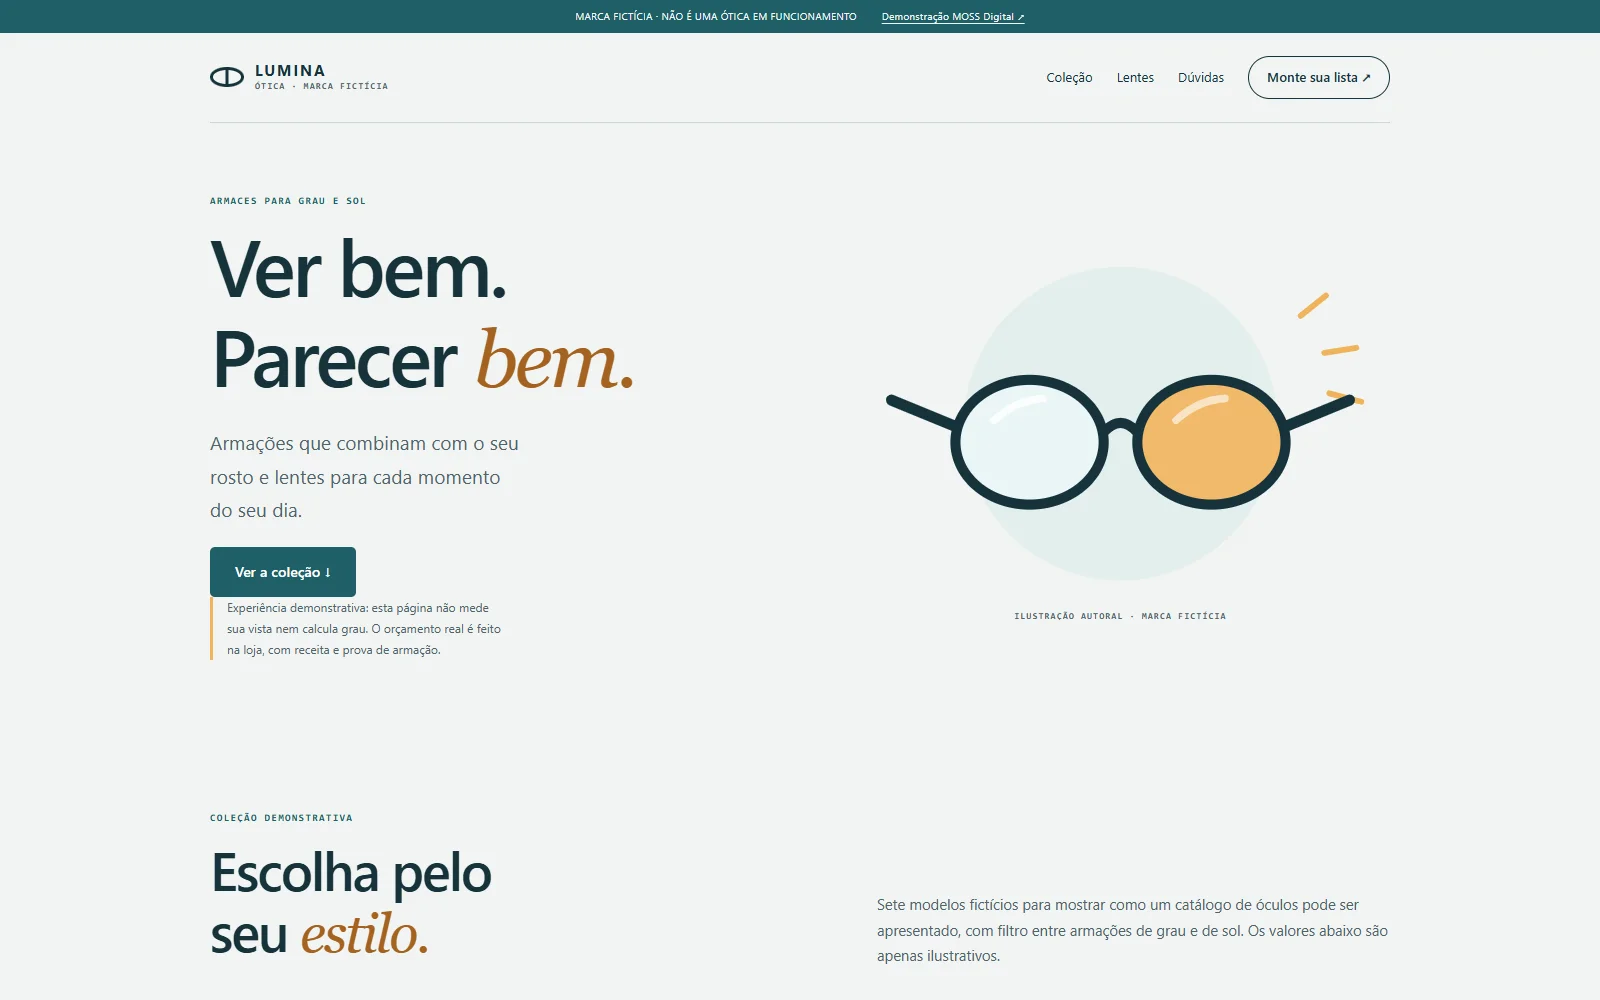
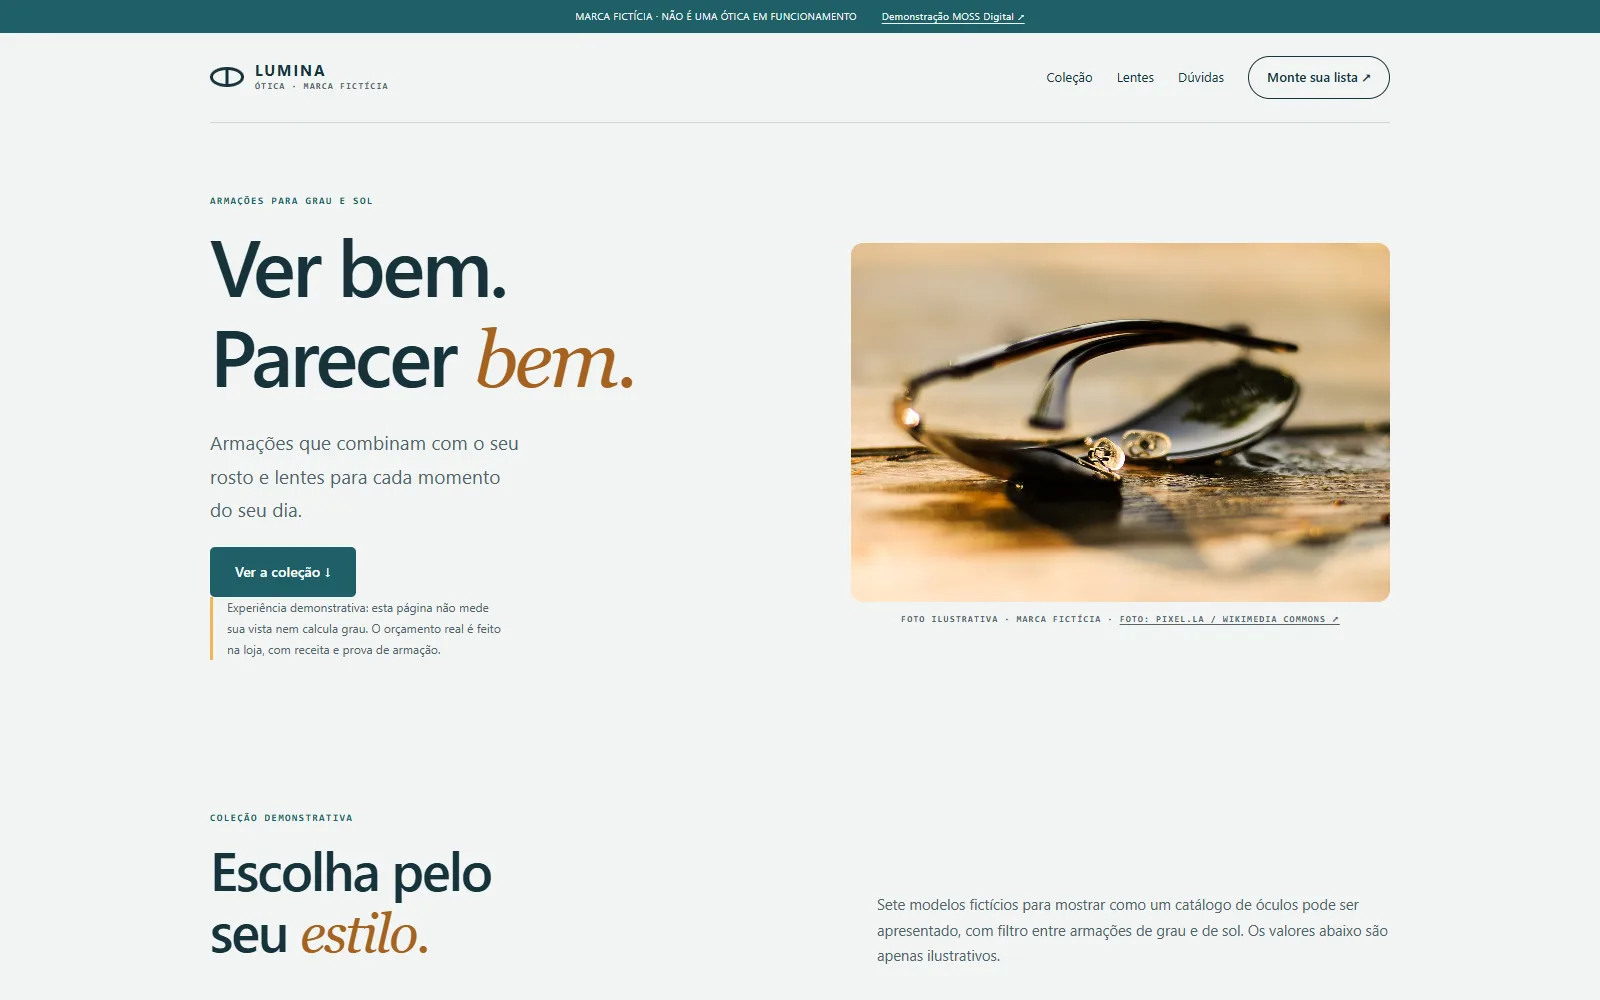
Otica: fotos reais nos cards de armações e prévia atualizada

Changed region(s): [[0.5312, 0.217, 0.875, 0.62], [0.1562, 0.186, 0.2188, 0.217]]

diff --git a/demos/otica/index.html b/demos/otica/index.html
@@ -6,13 +6,13 @@
 <section class="hero container" id="inicio" aria-labelledby="hero-title"><div class="hero-copy"><span class="eyebrow">ARMAÇÕES PARA GRAU E SOL</span><h1 id="hero-title">Ver bem.<br>Parecer <em>bem.</em></h1><p class="hero-line">Armações que combinam com o seu rosto e lentes para cada momento do seu dia.</p><a class="button" href="#colecao">Ver a coleção ↓</a><p class="hero-note">Experiência demonstrativa: esta página não mede sua vista nem calcula grau. O orçamento real é feito na loja, com receita e prova de armação.</p></div><div class="hero-art"><img src="assets/foto-oculos.jpg" alt="Fotografia ilustrativa de óculos de sol sobre uma superfície de madeira" width="1280" height="853" fetchpriority="high"><span>FOTO ILUSTRATIVA · MARCA FICTÍCIA · <a href="https://commons.wikimedia.org/wiki/File:Fashion-sunglasses-summer-eyewear_(24326655305).jpg" target="_blank" rel="noopener noreferrer">FOTO: PIXEL.LA / WIKIMEDIA COMMONS ↗</a></span></div></section>
 <section class="section container" id="colecao" aria-labelledby="colecao-title"><div class="section-heading"><div><span class="eyebrow">COLEÇÃO DEMONSTRATIVA</span><h2 id="colecao-title">Escolha pelo<br>seu <em>estilo.</em></h2></div><p>Sete modelos fictícios para mostrar como um catálogo de óculos pode ser apresentado, com filtro entre armações de grau e de sol. Os valores abaixo são apenas ilustrativos.</p></div><div class="filters" role="group" aria-label="Filtrar a coleção"><button type="button" data-filter="todos" aria-pressed="true">Todos</button><button type="button" data-filter="grau" aria-pressed="false">Óculos de grau</button><button type="button" data-filter="sol" aria-pressed="false">Óculos de sol</button></div><p class="count" id="filter-count" aria-live="polite">7 modelos na coleção</p>
 <div class="grid">
-<article class="card" data-kind="grau"><img src="assets/arm-redondo.svg" alt="Ilustração de armação redonda" width="320" height="140"><span class="tag tag-grau">GRAU</span><h3>Redondo Clássico</h3><p>Aro redondo de acetato, leve e versátil para o dia a dia.</p><span class="price">a partir de R$ 280 <small>valor ilustrativo</small></span><a class="card-link" href="#lista" data-style="redondo">Experimentar esse estilo →</a></article>
-<article class="card" data-kind="grau"><img src="assets/arm-quadrado.svg" alt="Ilustração de armação quadrada" width="320" height="140"><span class="tag tag-grau">GRAU</span><h3>Quadrado Urbano</h3><p>Cantos definidos e ponte firme, para quem prefere linhas retas.</p><span class="price">a partir de R$ 320 <small>valor ilustrativo</small></span><a class="card-link" href="#lista" data-style="quadrado">Experimentar esse estilo →</a></article>
-<article class="card" data-kind="grau"><img src="assets/arm-hexagonal.svg" alt="Ilustração de armação hexagonal" width="320" height="140"><span class="tag tag-grau">GRAU</span><h3>Hexagonal Moderno</h3><p>Aro geométrico para quem quer sair do formato tradicional.</p><span class="price">a partir de R$ 350 <small>valor ilustrativo</small></span><a class="card-link" href="#lista" data-style="hexagonal">Experimentar esse estilo →</a></article>
-<article class="card" data-kind="grau"><img src="assets/arm-metalico.svg" alt="Ilustração de armação metálica fina" width="320" height="140"><span class="tag tag-grau">GRAU</span><h3>Metálico Fino</h3><p>Estrutura discretamente dourada, quase imperceptível no rosto.</p><span class="price">a partir de R$ 390 <small>valor ilustrativo</small></span><a class="card-link" href="#lista" data-style="qualquer">Experimentar esse estilo →</a></article>
-<article class="card" data-kind="sol"><img src="assets/arm-aviador.svg" alt="Ilustração de óculos aviador de sol" width="320" height="140"><span class="tag tag-sol">SOL</span><h3>Aviador Solar</h3><p>Lente esverdeada clássica, boa para dirigir e para o sol forte.</p><span class="price">a partir de R$ 260 <small>valor ilustrativo</small></span><a class="card-link" href="#lista" data-style="aviador">Experimentar esse estilo →</a></article>
-<article class="card" data-kind="sol"><img src="assets/arm-gato.svg" alt="Ilustração de armação estilo gato" width="320" height="140"><span class="tag tag-sol">SOL</span><h3>Gato Chic</h3><p>Ponta levantada e aro marcante, um clássico que valoriza o olhar.</p><span class="price">a partir de R$ 310 <small>valor ilustrativo</small></span><a class="card-link" href="#lista" data-style="gato">Experimentar esse estilo →</a></article>
-<article class="card" data-kind="sol"><img src="assets/arm-sol-redondo.svg" alt="Ilustração de óculos de sol redondo" width="320" height="140"><span class="tag tag-sol">SOL</span><h3>Sol Redondo Retrô</h3><p>Lente escura redonda com brilho leve, inspirada nos anos 70.</p><span class="price">a partir de R$ 240 <small>valor ilustrativo</small></span><a class="card-link" href="#lista" data-style="redondo">Experimentar esse estilo →</a></article>
+<article class="card" data-kind="grau"><img src="assets/arm-redondo.jpg" alt="Ilustração de armação redonda" width="320" height="140"><span class="tag tag-grau">GRAU</span><h3>Redondo Clássico</h3><p>Aro redondo de acetato, leve e versátil para o dia a dia.</p><span class="price">a partir de R$ 280 <small>valor ilustrativo</small></span><a class="card-link" href="#lista" data-style="redondo">Experimentar esse estilo →</a></article>
+<article class="card" data-kind="grau"><img src="assets/arm-quadrado.jpg" alt="Ilustração de armação quadrada" width="320" height="140"><span class="tag tag-grau">GRAU</span><h3>Quadrado Urbano</h3><p>Cantos definidos e ponte firme, para quem prefere linhas retas.</p><span class="price">a partir de R$ 320 <small>valor ilustrativo</small></span><a class="card-link" href="#lista" data-style="quadrado">Experimentar esse estilo →</a></article>
+<article class="card" data-kind="grau"><img src="assets/arm-hexagonal.jpg" alt="Ilustração de armação hexagonal" width="320" height="140"><span class="tag tag-grau">GRAU</span><h3>Hexagonal Moderno</h3><p>Aro geométrico para quem quer sair do formato tradicional.</p><span class="price">a partir de R$ 350 <small>valor ilustrativo</small></span><a class="card-link" href="#lista" data-style="hexagonal">Experimentar esse estilo →</a></article>
+<article class="card" data-kind="grau"><img src="assets/arm-metalico.jpg" alt="Ilustração de armação metálica fina" width="320" height="140"><span class="tag tag-grau">GRAU</span><h3>Metálico Fino</h3><p>Estrutura discretamente dourada, quase imperceptível no rosto.</p><span class="price">a partir de R$ 390 <small>valor ilustrativo</small></span><a class="card-link" href="#lista" data-style="qualquer">Experimentar esse estilo →</a></article>
+<article class="card" data-kind="sol"><img src="assets/arm-aviador.jpg" alt="Ilustração de óculos aviador de sol" width="320" height="140"><span class="tag tag-sol">SOL</span><h3>Aviador Solar</h3><p>Lente esverdeada clássica, boa para dirigir e para o sol forte.</p><span class="price">a partir de R$ 260 <small>valor ilustrativo</small></span><a class="card-link" href="#lista" data-style="aviador">Experimentar esse estilo →</a></article>
+<article class="card" data-kind="sol"><img src="assets/arm-gato.jpg" alt="Ilustração de armação estilo gato" width="320" height="140"><span class="tag tag-sol">SOL</span><h3>Gato Chic</h3><p>Ponta levantada e aro marcante, um clássico que valoriza o olhar.</p><span class="price">a partir de R$ 310 <small>valor ilustrativo</small></span><a class="card-link" href="#lista" data-style="gato">Experimentar esse estilo →</a></article>
+<article class="card" data-kind="sol"><img src="assets/arm-sol-redondo.jpg" alt="Ilustração de óculos de sol redondo" width="320" height="140"><span class="tag tag-sol">SOL</span><h3>Sol Redondo Retrô</h3><p>Lente escura redonda com brilho leve, inspirada nos anos 70.</p><span class="price">a partir de R$ 240 <small>valor ilustrativo</small></span><a class="card-link" href="#lista" data-style="redondo">Experimentar esse estilo →</a></article>
 </div></section>
 <section class="section container" id="lentes" aria-labelledby="lentes-title"><div class="section-heading"><div><span class="eyebrow">LENTES PARA CADA ROTINA</span><h2 id="lentes-title">O que a lente<br>faz por <em>você.</em></h2></div><p>Exemplos de como apresentar opções de lentes em um site de ótica. As características abaixo são ilustrativas: a indicação real depende da receita e de avaliação oftalmológica.</p></div><div class="lente-grid"><article><h3>Antirreflexo</h3><p>Reduz reflexos de telas e luzes, deixando a visão mais confortável em ambientes internos.</p></article><article><h3>Filtro de luz azul</h3><p>Apresentada como opção para quem passa muitas horas na frente de telas. A necessidade varia pessoa a pessoa.</p></article><article><h3>Fotossensível</h3><p>A lente escurece ao sol e clareia em ambiente fechado, usando um só par para o dia inteiro.</p></article><article><h3>Polarizada</h3><p>Indicada para dirigir e praticar esportes ao ar livre, reduzindo reflexos de superfícies planas.</p></article><p class="lente-note">O grau é definido por um profissional habilitado. Esta demonstração não calcula grau, não examina a vista e não recomenda lentes.</p></div></section>
 <section class="list-section" id="lista" aria-labelledby="lista-title"><div class="list-layout container"><div><span class="eyebrow">MONTE SUA LISTA DE PROVA</span><h2 id="lista-title">Prepare a visita<br>à <em>ótica.</em></h2><p>Responda três perguntas e gere uma lista local com sugestões de armação e lembretes para a sua prova. É uma prévia no seu navegador, não um pedido.</p><p class="security-note">Nada é enviado, salvo ou compartilhado. O formulário só monta o resumo na própria página e pode ser copiado ou baixado em TXT.</p></div>
